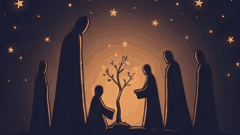
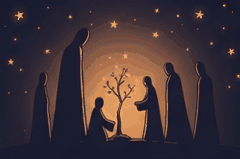
Voce 104: vignette dei Guardiani malati e guariti (10); vignette nella loro forma, bordi di magenta tolti

diff --git a/tools/illustrazione.py b/tools/illustrazione.py
@@ -80,10 +80,22 @@ def vignette(src: str, cartella: str, nomi: list[str], largo: int, colori: int) 
     os.makedirs(cartella, exist_ok=True)
     out = []
     for sl, nome in zip(rett, nomi):
+        # si tolgono dai bordi le righe e le colonne per lo più magenta: dove una figura esce dalla cornice (le radici
+        # del Nodo, il piede del Colosso) la macchia comprende anche la striscia di magenta sotto
+        y0, y1, x0, x1 = sl[0].start, sl[0].stop, sl[1].start, sl[1].stop
+        vuoto = a[:, :, 3] < 0.5
+        while y1 - y0 > 10 and vuoto[y1 - 1, x0:x1].mean() > 0.3:
+            y1 -= 1
+        while y1 - y0 > 10 and vuoto[y0, x0:x1].mean() > 0.3:
+            y0 += 1
+        while x1 - x0 > 10 and vuoto[y0:y1, x1 - 1].mean() > 0.3:
+            x1 -= 1
+        while x1 - x0 > 10 and vuoto[y0:y1, x0].mean() > 0.3:
+            x0 += 1
         m = 4
-        v = im.crop((sl[1].start + m, sl[0].start + m, sl[1].stop - m, sl[0].stop - m))
-        alto = round(largo * 9 / 16)
-        v = v.crop(_taglio_16_9(v))
+        v = im.crop((x0 + m, y0 + m, x1 - m, y1 - m))
+        # la forma della vignetta resta la sua: Nano Banana non le fa mai 16:9, e il taglio decapitava i Guardiani
+        alto = round(largo * v.height / v.width)
         small = riduci_con_luci(v, largo, alto)
         small = small.quantize(colors=colori, method=Image.Quantize.MEDIANCUT, dither=Image.Dither.NONE).convert("RGB")
         small.save(os.path.join(cartella, nome + ".png"))
@@ -91,27 +103,18 @@ def vignette(src: str, cartella: str, nomi: list[str], largo: int, colori: int) 
     return out
 
 
-def _taglio_16_9(v: Image.Image) -> tuple[int, int, int, int]:
-    """Il riquadro 16:9 più grande al centro della vignetta."""
-    w, h = v.size
-    if w * 9 > h * 16:
-        nw = h * 16 // 9
-        return ((w - nw) // 2, 0, (w - nw) // 2 + nw, h)
-    nh = w * 9 // 16
-    return (0, (h - nh) // 2, w, (h - nh) // 2 + nh)
-
-
 def foglio(immagini: list[Image.Image], nomi: list[str], path: str, zoom: int = 2) -> None:
     """Le vignette ingrandite in un foglio, per guardarle."""
     from PIL import ImageDraw
-    w, h = immagini[0].width * zoom, immagini[0].height * zoom
+    w = max(v.width for v in immagini) * zoom
+    h = max(v.height for v in immagini) * zoom
     col = 3
     righe = (len(immagini) + col - 1) // col
     f = Image.new("RGB", (col * (w + 12) + 12, righe * (h + 34) + 12), (60, 52, 66))
     d = ImageDraw.Draw(f)
     for i, (v, n) in enumerate(zip(immagini, nomi)):
         x, y = 12 + (i % col) * (w + 12), 12 + (i // col) * (h + 34)
-        f.paste(v.resize((w, h), Image.NEAREST), (x, y))
+        f.paste(v.resize((v.width * zoom, v.height * zoom), Image.NEAREST), (x, y))
         d.text((x, y + h + 6), n, fill=(230, 220, 200))
     f.save(path)
 
